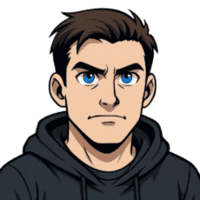
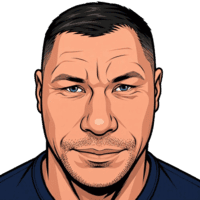
feat: add some personel

diff --git a/src/data/staff.ts b/src/data/staff.ts
@@ -86,17 +86,17 @@ export const reachTruckDriversList: Staff[] = [
     name: 'Максим',
     position: 'Водитель ричтрака',
     avatar: 'beaver_lap',
-    cost: 8000,
-    baseSpeed: 5,
-    purpose: 'lootbox',
+    cost: 7250,
+    baseSpeed: 3,
+    purpose: 'shop',
   },
   {
     id: 'reachtruck_08',
     name: 'Сергей',
     position: 'Водитель ричтрака',
     avatar: 'beaver_kos',
-    cost: 7250,
-    baseSpeed: 3,
+    cost: 7500,
+    baseSpeed: 4,
     purpose: 'shop',
   },
   {
@@ -113,8 +113,8 @@ export const reachTruckDriversList: Staff[] = [
     name: 'Стас',
     position: 'Водитель ричтрака',
     avatar: 'beaver_shk',
-    cost: 8000,
-    baseSpeed: 5,
+    cost: 7250,
+    baseSpeed: 3,
     purpose: 'shop',
   },
   {
@@ -185,63 +185,77 @@ export const reachTruckDriversList: Staff[] = [
     name: 'Strelok',
     position: 'Водитель ричтрака',
     avatar: 'beaver_str',
-    cost: 500000,
+    cost: 7500,
     baseSpeed: 10,
     purpose: 'lootbox',
+    startTier: 4,
+    startLevel: 5,
   },
   {
     id: 'reachtruck_19',
     name: 'Айзек Кларк',
     position: 'Водитель ричтрака',
     avatar: 'beaver_isa',
-    cost: 500000,
+    cost: 7500,
     baseSpeed: 10,
     purpose: 'lootbox',
+    startTier: 4,
+    startLevel: 5,
   },
   {
     id: 'reachtruck_20',
     name: 'Гордон Фримен',
     position: 'Водитель ричтрака',
     avatar: 'beaver_gor',
-    cost: 500000,
+    cost: 7500,
     baseSpeed: 10,
     purpose: 'lootbox',
+    startTier: 4,
+    startLevel: 5,
   },
   {
     id: 'reachtruck_21',
     name: 'Джон 117',
     position: 'Водитель ричтрака',
     avatar: 'beaver_chi',
-    cost: 500000,
+    cost: 7500,
     baseSpeed: 10,
     purpose: 'lootbox',
+    startTier: 4,
+    startLevel: 5,
   },
   {
     id: 'reachtruck_22',
     name: 'Палач',
     position: 'Водитель ричтрака',
     avatar: 'beaver_doo',
-    cost: 500000,
+    cost: 7500,
     baseSpeed: 10,
     purpose: 'lootbox',
+    startTier: 4,
+    startLevel: 5,
   },
   {
     id: 'reachtruck_23',
     name: 'Шепард',
     position: 'Водитель ричтрака',
     avatar: 'beaver_shep',
-    cost: 500000,
+    cost: 7500,
     baseSpeed: 10,
     purpose: 'lootbox',
+    startTier: 4,
+    startLevel: 5,
   },
   {
     id: 'reachtruck_24',
     name: 'Терминатор',
     position: 'Водитель ричтрака',
     avatar: 'beaver_term',
-    cost: 500000,
+    cost: 7500,
     baseSpeed: 10,
     purpose: 'lootbox',
+    startTier: 4,
+    startLevel: 5,
   },
 ]
 
@@ -410,11 +424,11 @@ export const pickersList: Staff[] = [
   },
   {
     id: 'picker_19',
-    name: 'Агрессивный Костя',
+    name: 'Олег Монгол',
     position: 'Комплектовщик',
     avatar: 'picker_19',
-    cost: 30000,
-    baseSpeed: 7,
+    cost: 7250,
+    baseSpeed: 3,
     purpose: 'lootbox',
   },
   {
@@ -422,8 +436,8 @@ export const pickersList: Staff[] = [
     name: 'Артем',
     position: 'Комплектовщик',
     avatar: 'picker_20',
-    cost: 30000,
-    baseSpeed: 6,
+    cost: 7500,
+    baseSpeed: 4,
     purpose: 'shop',
   },
   {
@@ -449,27 +463,55 @@ export const pickersList: Staff[] = [
     name: 'Геральт',
     position: 'Комплектовщик',
     avatar: 'picker_23',
-    cost: 500000,
+    cost: 7500,
     baseSpeed: 10,
     purpose: 'lootbox',
+    startTier: 4,
+    startLevel: 5,
   },
   {
     id: 'picker_24',
     name: 'Кратос',
     position: 'Комплектовщик',
     avatar: 'picker_24',
-    cost: 500000,
+    cost: 7500,
     baseSpeed: 10,
     purpose: 'lootbox',
+    startTier: 4,
+    startLevel: 5,
   },
   {
     id: 'picker_25',
     name: 'Хищник',
     position: 'Комплектовщик',
     avatar: 'picker_25',
-    cost: 500000,
+    cost: 7500,
     baseSpeed: 10,
     purpose: 'lootbox',
+    startTier: 4,
+    startLevel: 5,
+  },
+  {
+    id: 'picker_26',
+    name: 'Джон Рэмбо',
+    position: 'Комплектовщик',
+    avatar: 'picker_26',
+    cost: 7500,
+    baseSpeed: 10,
+    purpose: 'lootbox',
+    startTier: 4,
+    startLevel: 5,
+  },
+  {
+    id: 'picker_27',
+    name: 'Джейк Салли',
+    position: 'Комплектовщик',
+    avatar: 'picker_27',
+    cost: 7500,
+    baseSpeed: 10,
+    purpose: 'lootbox',
+    startTier: 4,
+    startLevel: 5,
   },
   
 ]

diff --git a/src/utils/staffUpgrades.ts b/src/utils/staffUpgrades.ts
@@ -20,12 +20,16 @@ export function getUpgradeableStaff(staffId: string): Staff | undefined {
   return staffCatalog.get(staffId)
 }
 
-/** Получает прогресс тира для сотрудника (дефолт: тир 1, уровень = baseSpeed) */
+/** Получает прогресс тира для сотрудника (дефолт: стартовая лига, уровень = baseSpeed) */
 export function getStaffTierProgress(staff: Staff, upgrades?: StaffUpgrades): { tier: StaffTier; level: number } {
   const progress = upgrades?.[staff.id]
   if (progress) return progress
-  // Начальный прогресс: тир 1, уровень = baseSpeed
-  return { tier: 1, level: Math.min(staff.baseSpeed, MAX_TIER_LEVEL) }
+  // Начальный прогресс: у легендариков своя стартовая лига, у остальных
+  // красная с уровнем = baseSpeed
+  return {
+    tier: staff.startTier ?? 1,
+    level: Math.min(staff.startLevel ?? staff.baseSpeed, MAX_TIER_LEVEL),
+  }
 }
 
 /** Скорость сотрудника с учётом тира и уровня внутри него */

diff --git a/src/types/equipment.ts b/src/types/equipment.ts
@@ -1,3 +1,5 @@
+import type { StaffTier } from './staffUpgrades.ts'
+
 export type ShopCategory = 'equipment' | 'staff'
 
 export type StaffCategory = 'pickers' | 'reachTruckDrivers'
@@ -29,6 +31,10 @@ export interface Staff {
   cost: number
   baseSpeed: number // 0-100
   purpose: 'shop' | 'lootbox'
+  /** Стартовая лига без прокачки. По умолчанию 1 (красная) */
+  startTier?: StaffTier
+  /** Стартовый уровень скорости внутри startTier. По умолчанию baseSpeed */
+  startLevel?: number
   /** Стоимость одного повышения квалификации. По умолчанию — доля от cost */
   upgradeCost?: number
   /** Во сколько раз дорожает квалификация за каждое следующее повышение. По умолчанию 1.5 */

diff --git a/src/assets/assetLoader.ts b/src/assets/assetLoader.ts
@@ -80,6 +80,8 @@ import picker22 from './pickerAva/picker22.png'
 import picker23 from './pickerAva/witcher.png'
 import picker24 from './pickerAva/kratos.png'
 import picker25 from './pickerAva/predator.png'
+import picker26 from './pickerAva/rembo.png'
+import picker27 from './pickerAva/avatar.png'
 
 // Снаряжение
 import helmet01 from './rigging/helmet01.png'
@@ -377,6 +379,8 @@ export function initEquipmentImages(): void {
   pickerImages['picker_23'] = picker23
   pickerImages['picker_24'] = picker24
   pickerImages['picker_25'] = picker25
+  pickerImages['picker_26'] = picker26
+  pickerImages['picker_27'] = picker27
 
   // Снаряжение
   riggingImages['helmet_01'] = helmet01

diff --git a/src/state/state.ts b/src/state/state.ts
@@ -418,6 +418,9 @@ function migrateStaffUpgrades(raw: unknown): StaffUpgrades {
     // Старый формат: number
     const oldCount = typeof value === 'number' ? value : 0
     const staffData = allStaff.find(s => s.id === staffId)
+    // У легендариков стартовая лига задана в данных, а старый числовой прогресс
+    // означает «0 повышений» — оставляем дефолт из getStaffTierProgress
+    if (staffData?.startTier) continue
     const baseSpeed = staffData?.baseSpeed ?? 3
     const newLevel = Math.min(10, baseSpeed + oldCount)
     result[staffId] = { tier: 1 as StaffTier, level: newLevel }

diff --git a/src/data/lootBoxRewards.ts b/src/data/lootBoxRewards.ts
@@ -80,9 +80,8 @@ export const LOOTBOX_DROPS: LootBoxDropConfig[] = [
   { reward: { type: 'staff', id: 'picker_23' }, weight: 2 },
   { reward: { type: 'staff', id: 'picker_24' }, weight: 2 },
   { reward: { type: 'staff', id: 'picker_25' }, weight: 2 },
-
-  // --- Персонал водители: обычный ---
-  { reward: { type: 'staff', id: 'reachtruck_07' }, weight: 10 },
+  { reward: { type: 'staff', id: 'picker_26' }, weight: 2 },
+  { reward: { type: 'staff', id: 'picker_27' }, weight: 2 },
 
   // --- Персонал водители: легендарные (500000, 10★) ---
   { reward: { type: 'staff', id: 'reachtruck_18' }, weight: 2 },
